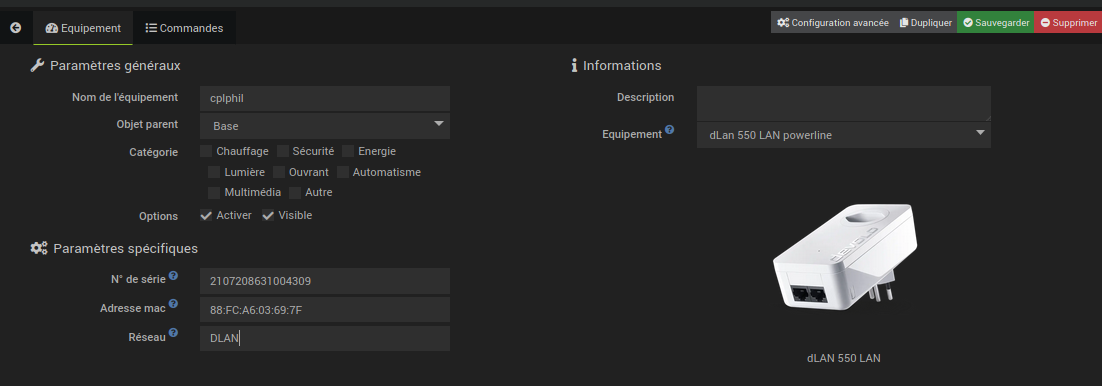
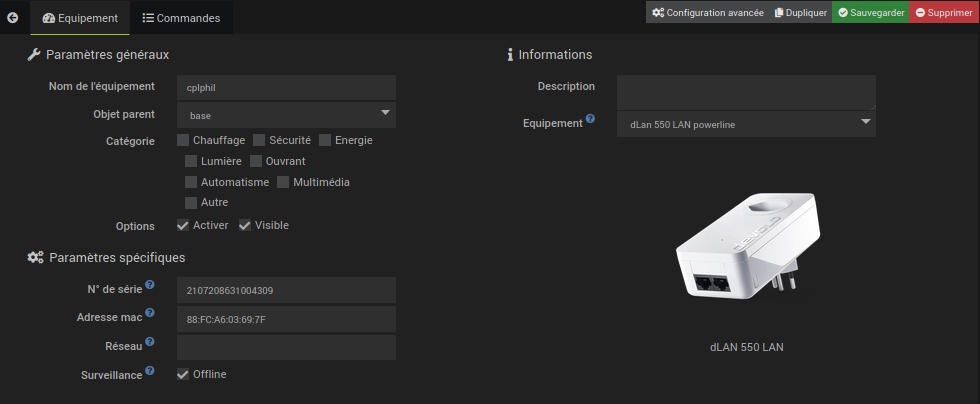
devolo_cpl avec option surveillance offline

diff --git a/fr_FR/devolo_cpl/index.md b/fr_FR/devolo_cpl/index.md
@@ -52,7 +52,7 @@ dans Jeedom est d'en documenter l'existance. Ils seront probablement pris en com
 dans une version future lors de la visualisation des vitesses de transfert entre les
 appareils.
 
-Des templates sont prévus dans le plugin pour les modèles suvants:
+Des templates sont prévus dans le plugin pour les modèles suivants:
 
 + DL1200 LAN
 + DL550 LAN
@@ -106,8 +106,8 @@ il faut lancer le démon.
 # Configuration des équipements
 {: .num}
 
-Les équipements pour les appareils manageables peuvent être créé automatiquements
-a condition qu'ils se trouvent dans le même réseau que le serveur jeedom et qu'ils
+Les équipements pour les appareils manageables peuvent être créés automatiquement
+à condition qu'ils se trouvent dans le même réseau que le serveur jeedom et qu'ils
 ne soient pas en veille. Sinon, il faudra les créer manuellement comme les appareils
 non manageables.
 
@@ -167,6 +167,8 @@ Après avoir créé un équipement automatiquement ou manuellement, il faut
 + Configurer le nom du réseau CPL (optionnel si vous n'avez qu'un seul réseau CPL)
 + Activer l'équipement.
 + Faire les configurations habituelles pour les équipements Jeedom.
++ Sélectionner `Surveillance Offline` si l'on veux avoir un message d'erreur lorsque
+  l'équipement n'est pas atteignable (en veille par exemple).
 
 ## Les commandes
 {: .num}
@@ -255,6 +257,11 @@ lorsque l'appareil répond à la demande du deamon.
 
   Le widget **Devolo_cpl/J_h_m** affiche cette valeur au format
   `<jours> <heures>:<minute>` (`<heures>:<minutes>` si jours = 0)
+
+### Online
+{: .num}
+
++ La commande `online` est une info binaire qui indique si l'équipement est online ou non.
 
 # Les débits CPL
 {: .num}

diff --git a/fr_FR/devolo_cpl/changelog.md b/fr_FR/devolo_cpl/changelog.md
@@ -5,6 +5,12 @@ title : devolo_cpl
 
 # Release notes
 
+### 2023/08/15 beta
++ Nouveau pluginlevel: 13
+  + Activation des alertes `offline` sur tous les équipements du plugin.
+  + Ajout d'un commande de type info `online` sur tous les équipements existants.
++ Nouvelle option pour (dés)activer les alertes lorsqu'un équipement est offline.
+
 ### **2023/07/14 stable**
 + devolo_plv_api
   + Ajout de la version 1.3.2 qui corrige un risque de fuite mémoire
